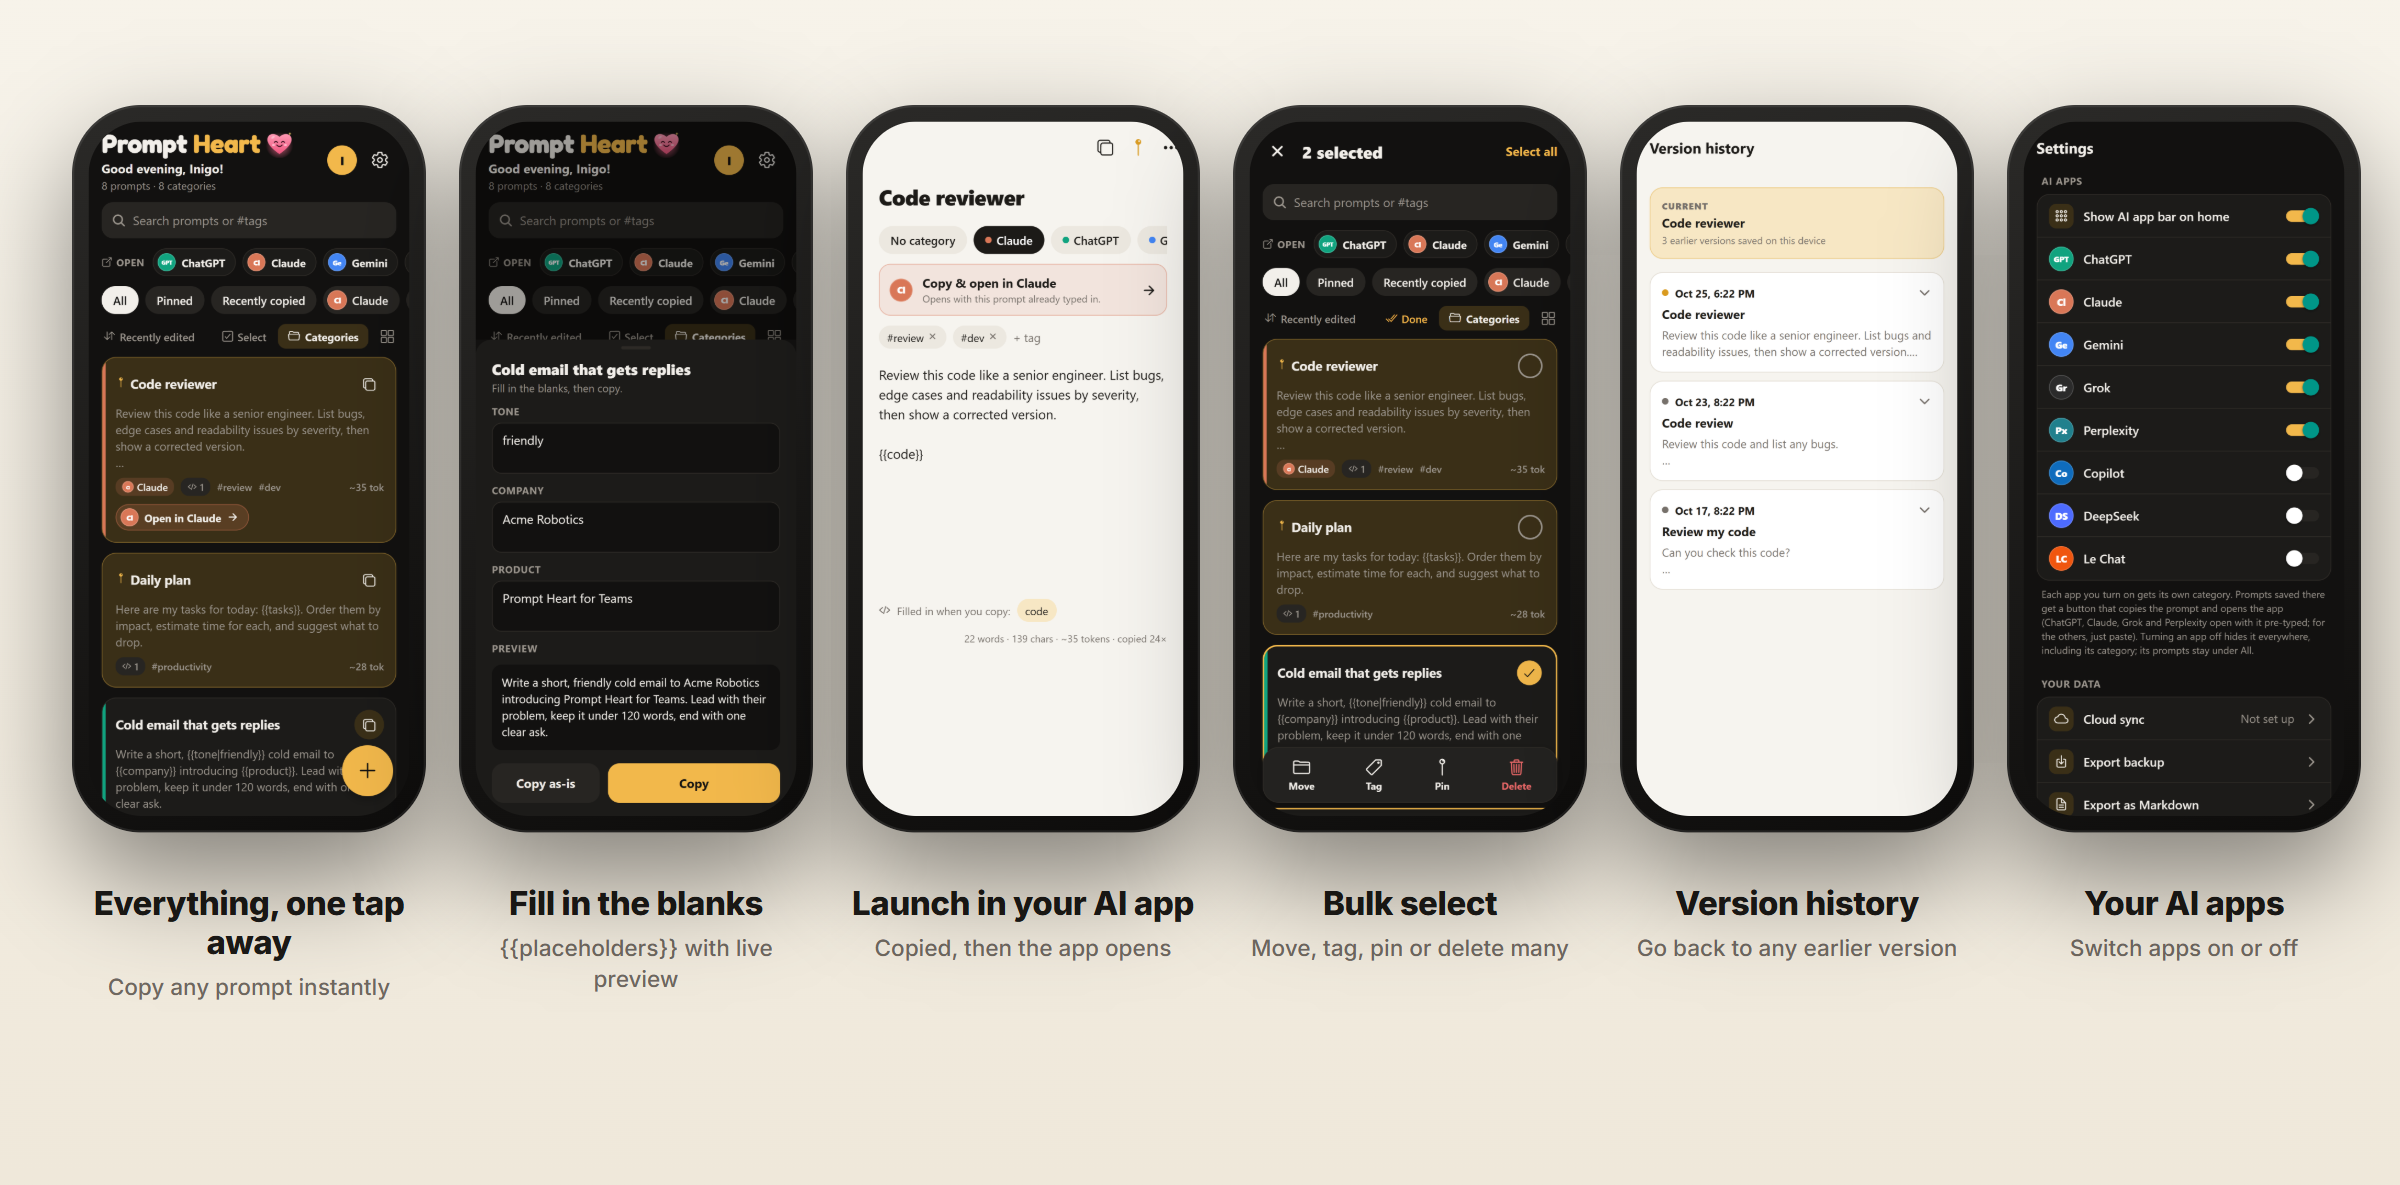
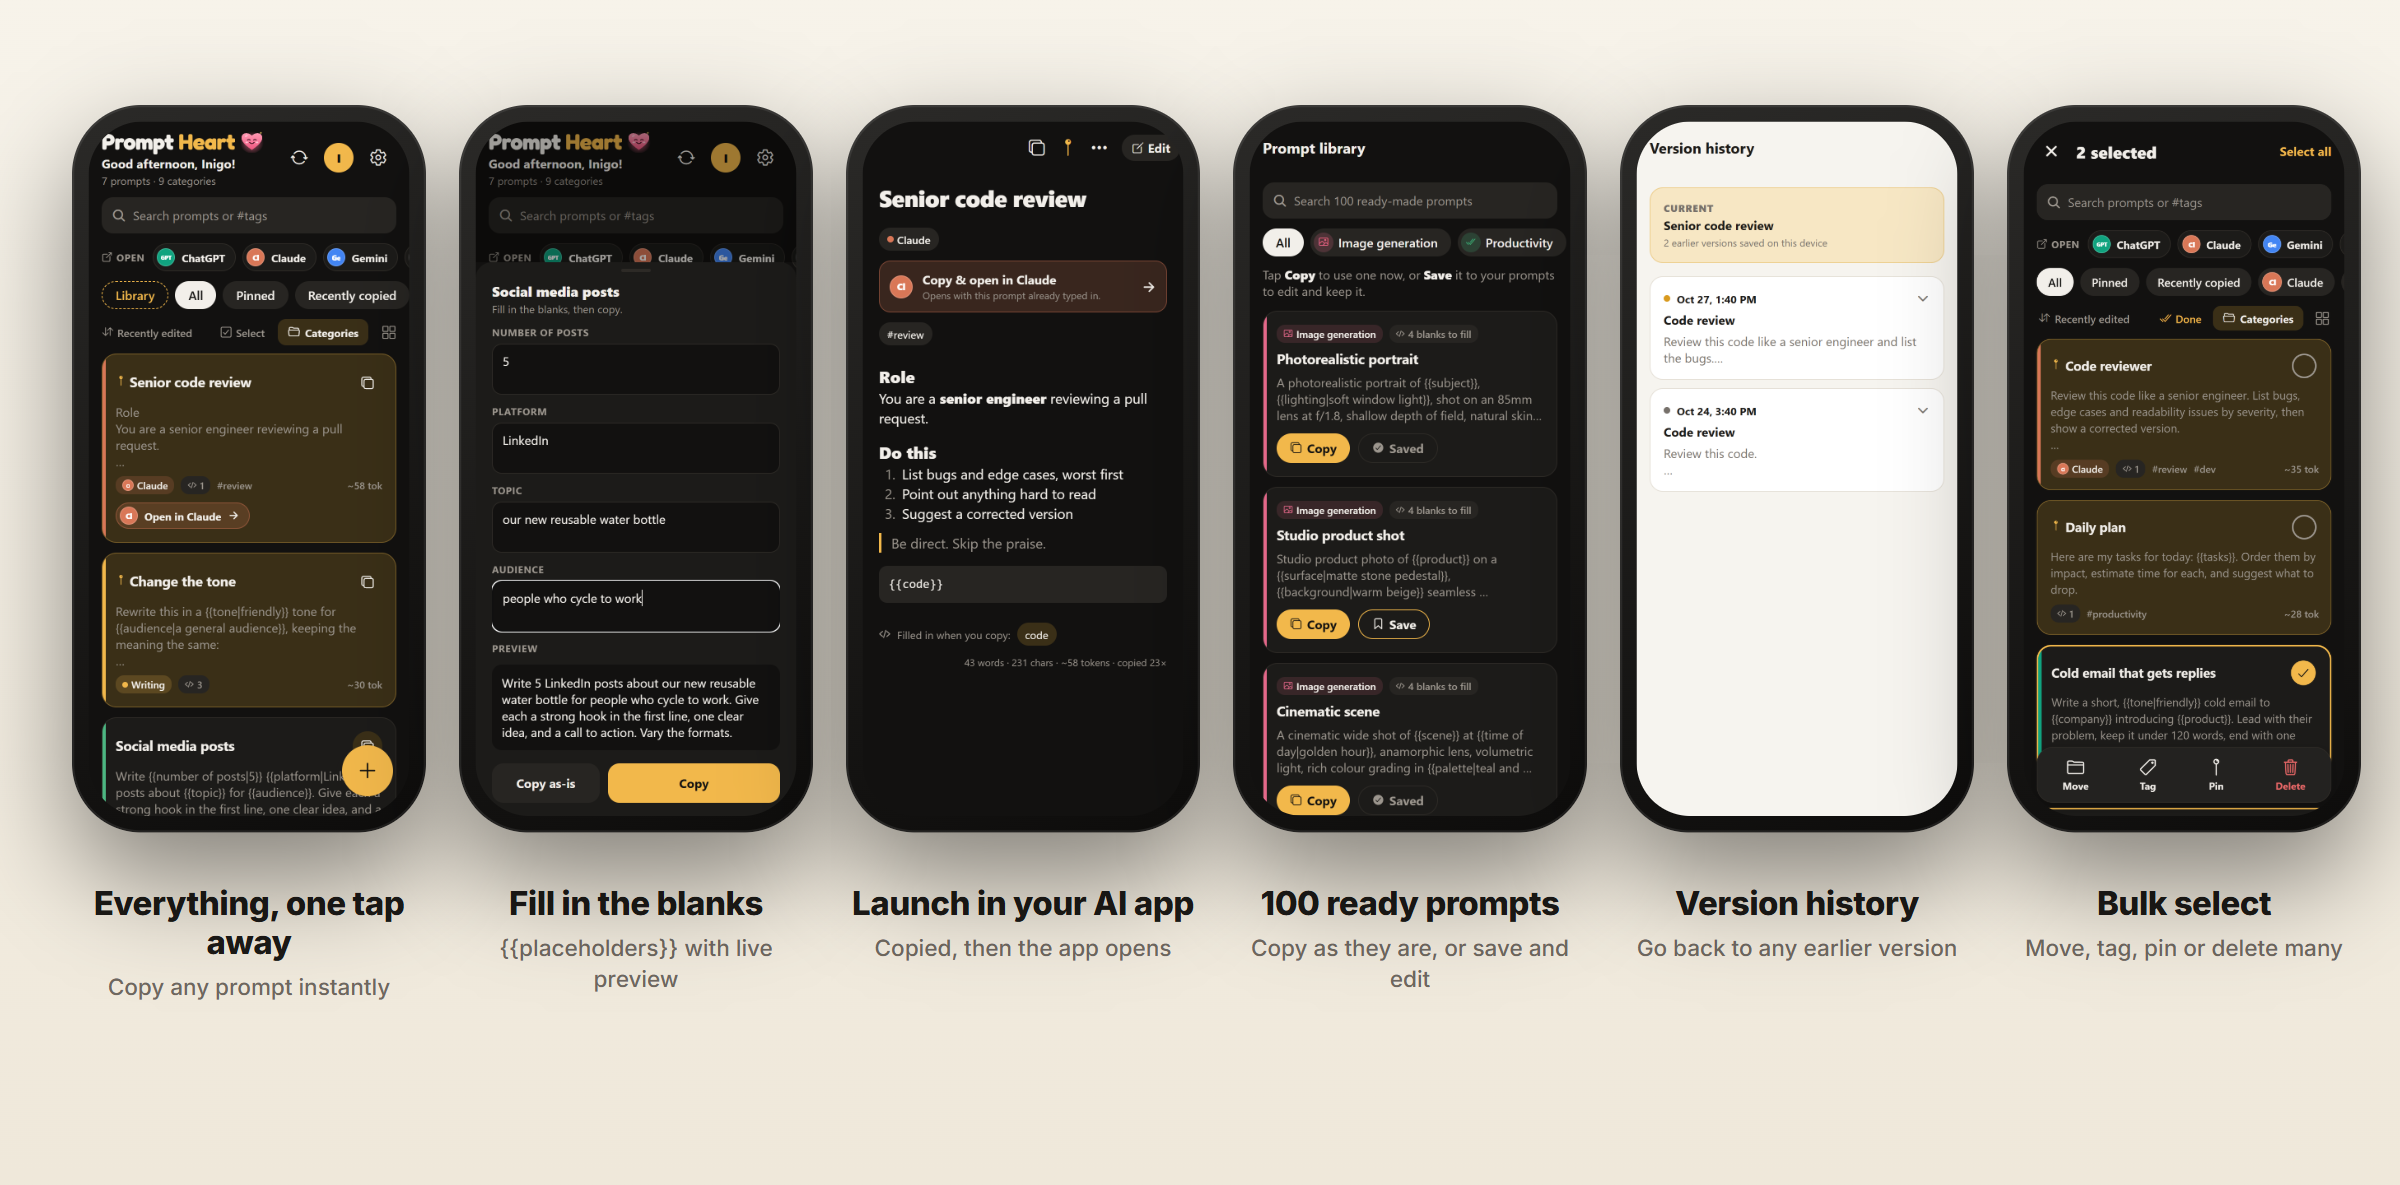
README for 1.7.0: new highlights, refreshed screens, New in 1.7.0 gallery

diff --git a/README.md b/README.md
@@ -6,7 +6,7 @@
   <a href="../../releases/latest"><img alt="Download APK" src="https://img.shields.io/badge/Download-Android%20APK-F2B84B?style=for-the-badge&logo=android&logoColor=white&labelColor=1C1A17"></a>
   <a href="https://inigo-code.github.io/prompt-heart-site/fdroid.html"><img alt="Get it with F-Droid" src="https://img.shields.io/badge/Get%20it%20with-F--Droid-1976D2?style=for-the-badge&logo=f-droid&logoColor=white&labelColor=1C1A17"></a>
   <a href="https://inigo-code.github.io/prompt-heart-site/"><img alt="Website" src="https://img.shields.io/badge/Website-Try%20it%20in%20your%20browser-F2B84B?style=for-the-badge&logo=googlechrome&logoColor=white&labelColor=1C1A17"></a>
-  <img alt="Version" src="https://img.shields.io/badge/version-1.6.0-F2B84B?style=for-the-badge&labelColor=1C1A17">
+  <img alt="Version" src="https://img.shields.io/badge/version-1.7.0-F2B84B?style=for-the-badge&labelColor=1C1A17">
   <img alt="Expo SDK 58" src="https://img.shields.io/badge/Expo-SDK%2058-000020?style=for-the-badge&logo=expo&logoColor=white">
   <img alt="React Native" src="https://img.shields.io/badge/React%20Native-0.88-61DAFB?style=for-the-badge&logo=react&logoColor=black">
   <img alt="Supabase" src="https://img.shields.io/badge/Sync-Supabase-3ECF8E?style=for-the-badge&logo=supabase&logoColor=white">
@@ -45,30 +45,44 @@ Save them in seconds, fill in the blanks when you need them, and copy or launch 
   </tr>
   <tr>
     <td valign="top">
+      <h4>✍ Read, then edit</h4>
+      Prompts open read-only, so a stray tap can't change them. <b>Edit</b> adds bold, lists, headings, code and <code>{{blanks}}</code>, with undo and redo.
+    </td>
+    <td valign="top">
       <h4>🗂 Organise anything</h4>
       Categories, #tags, pins, search, grid or list, a Recently copied view, and <b>bulk select</b> to move, tag or delete many at once.
     </td>
     <td valign="top">
       <h4>🕘 Version history</h4>
-      Every editing session is saved. Preview, copy or restore any earlier version, so a good prompt is never lost.
-    </td>
-    <td valign="top">
-      <h4>☁ Sync &amp; backup</h4>
-      Cloud sync across devices that works offline and stays light on data, plus JSON and Markdown export.
+      A version is kept each time you start editing. Preview, copy or restore any earlier one, so a good prompt is never lost.
     </td>
   </tr>
   <tr>
     <td valign="top">
-      <h4>📥 Save from any app</h4>
-      Share text, links or screenshots to Prompt Heart from Chrome, ChatGPT or Photos.
+      <h4>🏆 Your prompting</h4>
+      Your profile shows the four prompts you use most, a year of activity, streaks, where your prompts go, and eleven achievements in five tiers.
     </td>
     <td valign="top">
-      <h4>🎨 Made to feel yours</h4>
-      Light and dark themes, five accent colours, and a smiling heart that greets you by name, morning to midnight.
+      <h4>🪪 Profile card</h4>
+      Share your profile as a story-sized card, in light or dark. Your name, photo and bio follow you to your other phones.
     </td>
     <td valign="top">
-      <h4>🔔 Always up to date</h4>
-      Improvements arrive automatically, and a friendly pop-up tells you when an update is ready.
+      <h4>📥 Bring your prompts</h4>
+      Import from spreadsheets, Notion, the awesome-chatgpt-prompts list, JSON, Markdown or text. Or share text, links and screenshots in from any app.
+    </td>
+  </tr>
+  <tr>
+    <td valign="top">
+      <h4>☁ Sync &amp; backup</h4>
+      Cloud sync across devices that works offline and stays light on data, plus JSON, Markdown and spreadsheet (CSV) export.
+    </td>
+    <td valign="top">
+      <h4>🔒 App lock</h4>
+      Unlock with your fingerprint, face or screen lock, and keep your prompts hidden in the recent-apps screen.
+    </td>
+    <td valign="top">
+      <h4>✨ Always up to date</h4>
+      Improvements arrive by themselves, and after each update a short note shows what's new. Light and dark themes, five accents.
     </td>
   </tr>
   <tr>
@@ -82,7 +96,13 @@ Save them in seconds, fill in the blanks when you need them, and copy or launch 
 <br/>
 
 <p align="center">
-  <img src="docs/gallery.png" alt="Screens: home, templates, launch in AI app, bulk select, version history, AI apps" width="100%" />
+  <img src="docs/gallery.png" alt="Screens: home, filling in the blanks, a prompt with Copy and open in Claude, the prompt library, version history, bulk select" width="100%" />
+</p>
+
+### New in 1.7.0
+
+<p align="center">
+  <img src="docs/new-in-1.7.png" alt="Screens: the editor with its formatting bar, profile insights, achievements, the profile card, Import prompts, and App lock" width="100%" />
 </p>
 
 ## ⬇ Install
@@ -119,8 +139,8 @@ Both ways install the same signed APK, so you can switch between them without lo
 ## 🔒 Your data
 
 - **Offline first.** Prompts, images and history live on your phone and work without a connection.
-- **Private sync.** With an account, your prompts, images, name and photo sync through Supabase. Row Level Security means every account can only read its own rows, and images sit in a private bucket under your own folder.
-- **Version history stays on your device**, so sync stays fast and light.
+- **Private sync.** With an account, your prompts, images, name, bio and photo sync through Supabase. Row Level Security means every account can only read its own rows, and images sit in a private bucket under your own folder.
+- **Version history and the copy log stay on your device**, so sync stays fast and light. The copy log only counts copies per day for your profile's activity graph.
 - **Light on the cloud.** Up to 20 images per account sync; any extras stay on your phone. Images are resized to about 100 KB.
 - **Optional App lock.** Unlock with your fingerprint, face or phone screen lock, and keep your prompts hidden in the recent-apps screen.
 - **You're in control.** Change your email or password, export everything, or delete your account and all of its cloud data from **Profile**.
@@ -132,7 +152,9 @@ Read the full [privacy policy](https://inigo-code.github.io/prompt-heart-site/pr
 - [x] One-tap copy, templates, categories, tags, search
 - [x] Cloud sync, image attachments, save from other apps
 - [x] AI app folders and launching, bulk select, version history, update pop-up
-- [ ] Google Play release (sign-in emails, password reset, store listing)
+- [x] Prompt library, App lock, sign-in emails and password reset
+- [x] Read-only prompts with formatting and undo; profile insights, achievements and a profile card; import from other apps
+- [ ] Google Play release
 - [ ] Home-screen widget for pinned prompts
 - [ ] Shared libraries for teams
 
@@ -145,10 +167,10 @@ Read the full [privacy policy](https://inigo-code.github.io/prompt-heart-site/pr
 
 ```
 src/
-  app/          Screens: home, editor, history, categories, settings, profile, account, about, trash, share
+  app/          Screens: home, editor, history, library, import, categories, settings, profile, profile card, account, about, trash, share
   components/   Cards, chips, sheets, avatar, brand title, update pop-up, settings building blocks
-  lib/          Theme, templates, AI apps, images, backups, greetings
-  profile/      Name and photo, synced to the account
+  lib/          Theme, templates, formatting, undo, AI apps, images, backups, importing, greetings
+  profile/      Name, bio and photo (synced to the account), the copy log, profile insights
   settings/     App settings (theme, accent, layout, AI apps…)
   store/        Prompts and categories, merge rules, version history, seed data
   sync/         Supabase client, sync engine, row mapping
